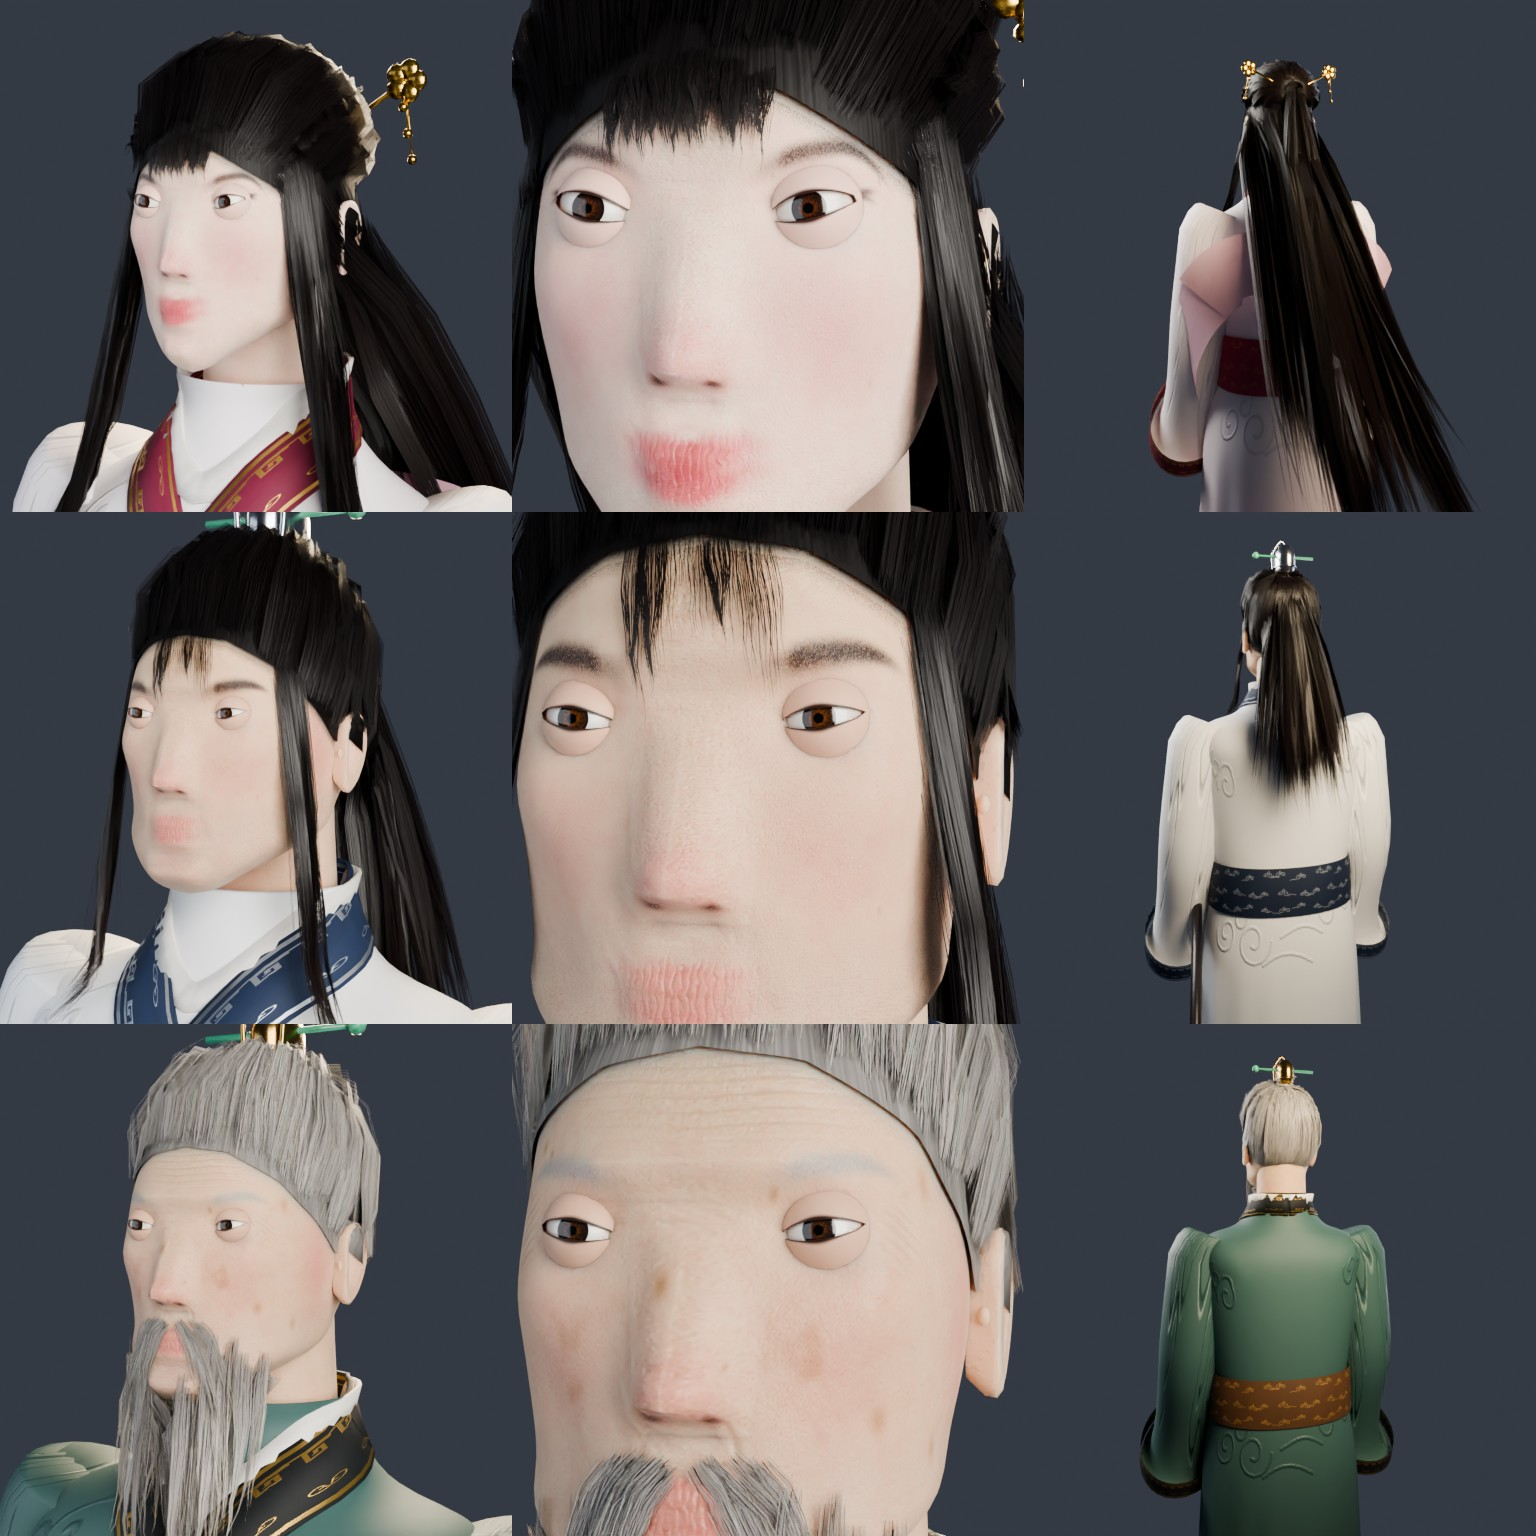
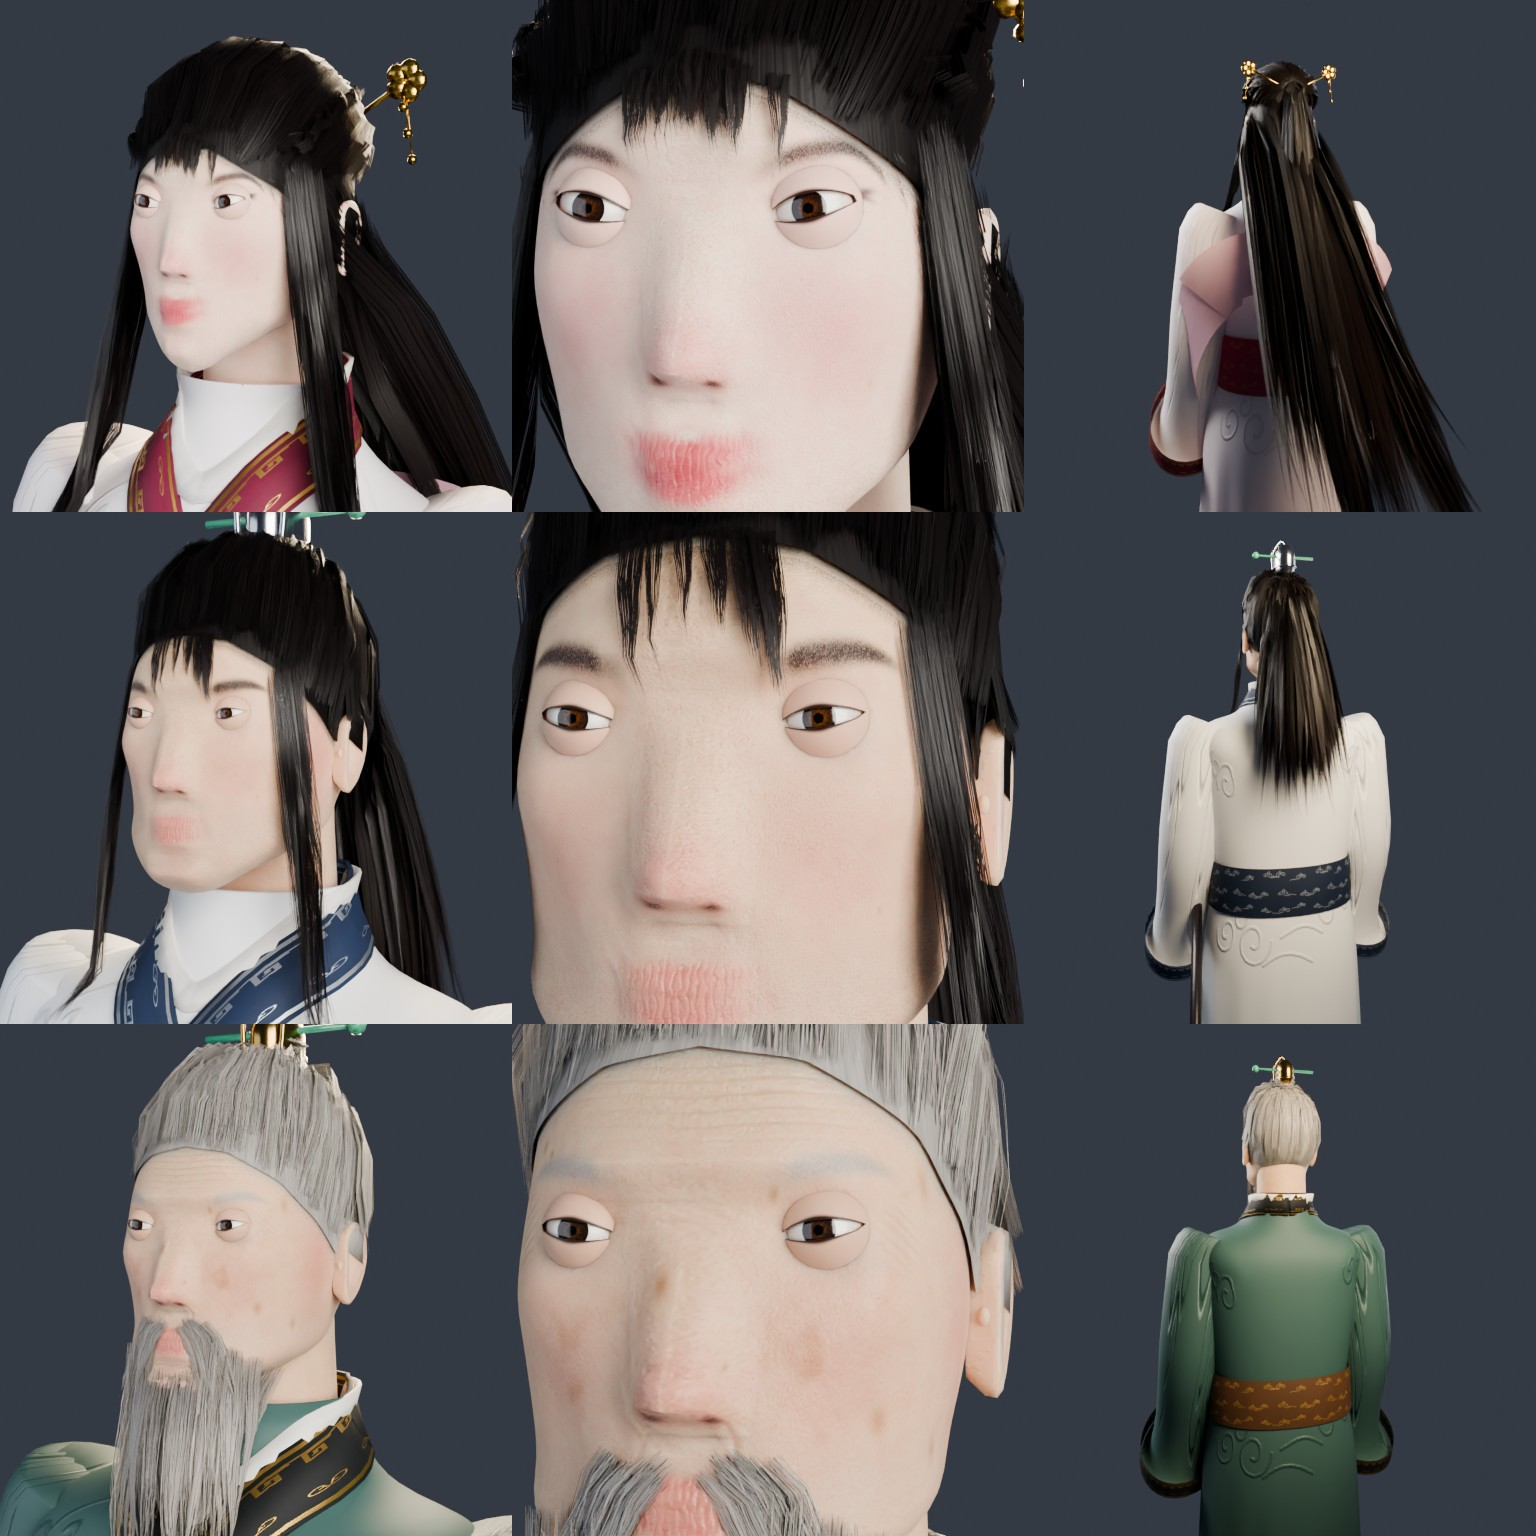
Skin: measure eye centres per side from any eye parts; refresh hair/skin sheet
Claude-Session: https://claude.ai/code/session_01EN1kjXPAfDEKoNwEgp25mB

diff --git a/blender/xianxia/skin.py b/blender/xianxia/skin.py
@@ -353,7 +353,8 @@ def paint_head(cfg, material, head_parts, centre, radii, size, hairline, makeup=
     pos, nrm = SM.dilate([pos, nrm], cover)
     eyes = []
     for o in head_parts:
-        if o.data.vertices and any(m in eye_mats for m in o.data.materials):
+        mats_o = [m for m in o.data.materials if m is not None]
+        if o.data.vertices and mats_o and all(m in eye_mats for m in mats_o):      # a separate eyeball
             co = np.array([tuple(o.matrix_world @ v.co) for v in o.data.vertices], np.float32)
             eyes.append(co.mean(0))
 
@@ -363,7 +364,10 @@ def paint_head(cfg, material, head_parts, centre, radii, size, hairline, makeup=
     points = {}
     for o in head_parts:
         points.update({k: tuple(v) for k, v in o.get("face_landmarks", {}).items()})
-    lm = landmarks(cfg, eyes if len(eyes) == 2 else None, frame_of, points)
+    # eye parts (sclera / iris / cornea...) grouped per side -> one centre per eye
+    sides = [[e for e in eyes if e[0] * k > 0] for k in (1, -1)]
+    centres = [np.mean(g, 0) for g in sides if g]
+    lm = landmarks(cfg, centres if len(centres) == 2 else None, frame_of, points)
     cfg = dict(cfg, _hairline=hairline, _makeup=makeup)
     painter = FacePainter(pos, nrm, cover, centre, radii, cfg, lm)
     col, rough, ao, h = painter.run()
@@ -380,7 +384,7 @@ def paint(cfg, mats, head_parts, centre, radii, hairline):
     makeup = (1.0 if age < 0.25 else 0.35) if fem else 0.0
     if cfg.get("beard"):
         cfg = dict(cfg, stubble=max(cfg.get("stubble", 0.0), 0.45))
-    eye_mats = {mats[k] for k in ("eye", "Eye_Sclera", "Eye_Iris") if k in mats}
+    eye_mats = {mats[k] for k in ("eye", "Eye_Sclera", "Eye_Iris", "Eye_Cornea") if k in mats}
     maps = paint_head(cfg, mat, head_parts, centre, radii, size, hairline, makeup, eye_mats)
     if maps is not None:
         paint_face_into(mat, maps, size)
